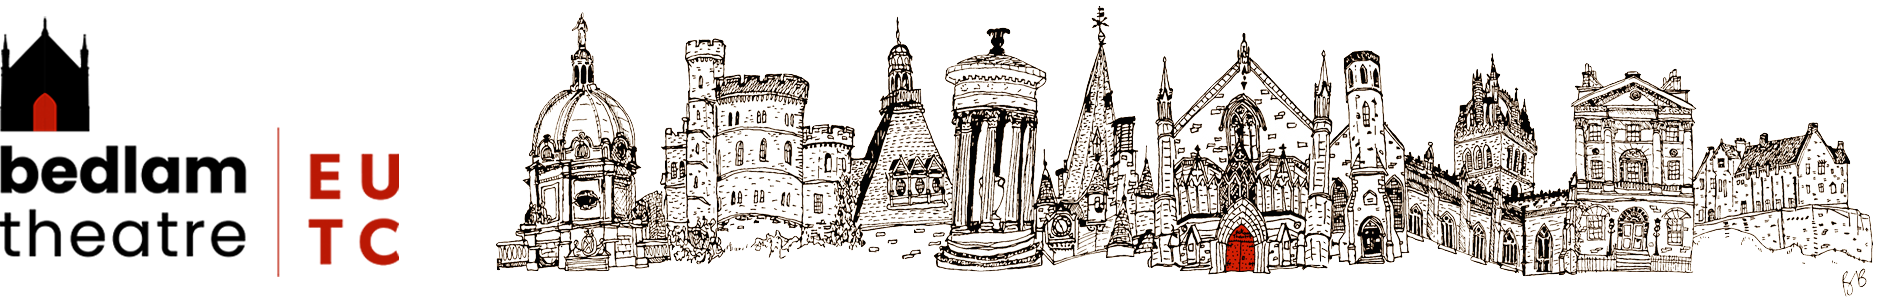
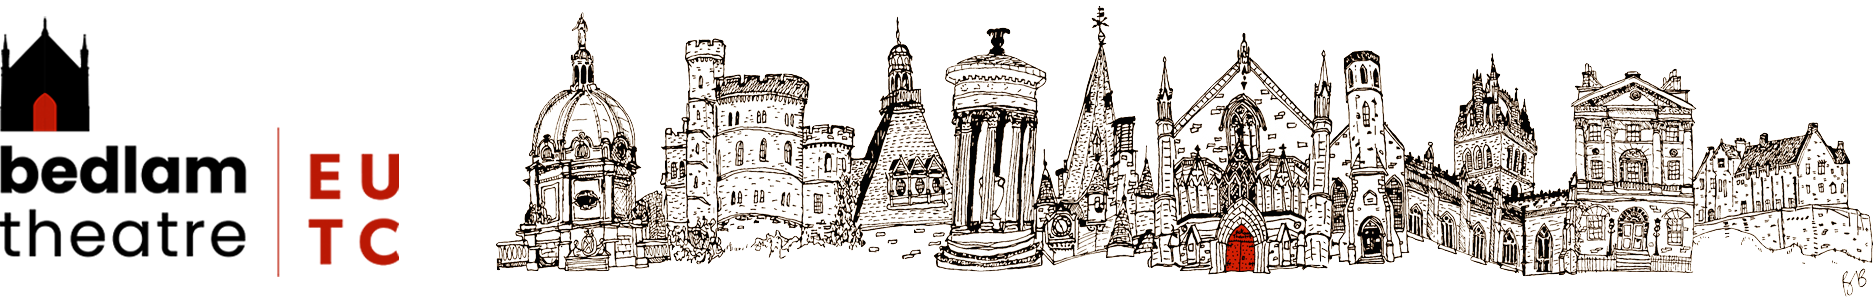
Update Bootstrap variables to style the public front-end in Bedlam red Style header to have clearer text Rejiggle sass files Crop a little blank space off of the header Align header fully with the navbar Make the navbar take up the full width of the navbar

diff --git a/app/assets/stylesheets/application.scss b/app/assets/stylesheets/application.scss
@@ -1,7 +1,20 @@
-// Note that things placed here do not work for the backend.
-@import 'base';
+// NOTE THAT THINGS PLACED HERE DO NOT WORK FOR THE BACKEND
+@import 'custom_bootstrap';
 
+//$fa-font-path: '@fortawesome/fontawesome-free/webfonts';
+//@import '@fortawesome/fontawesome-free/scss/fontawesome';
+//@import '@fortawesome/fontawesome-free/scss/solid';
+//@import '@fortawesome/fontawesome-free/scss/regular';
+//@import '@fortawesome/fontawesome-free/scss/brands';
+//@import '@fortawesome/fontawesome-free/scss/v4-shims';
+
+@import 'form_additions';
+@import 'shared_additions';
+
+// BOOTSTRAP: I think bootstrap-extensions should be merged with the rest. _everything_ is Bootstrap.
+@import 'bootstrap-extensions';
+
+// BOOTSTRAP: This file does not exist. Did you mean @import 'admin/swalCustomTheme.css';
 @import 'vendor/swalCustomTheme.css';
-@import 'admin/customisations.scss';
 
-@import 'additions';
+@import 'public_additions';

diff --git a/app/assets/stylesheets/custom_bootstrap.scss b/app/assets/stylesheets/custom_bootstrap.scss
@@ -1,0 +1,13 @@
+// Override the default Bootstrap colours.
+// This is only for front end, so we are neglecting the possible confusion of primary being red instead of danger being red.
+$red: #ba0204;
+
+$primary: $red;
+$secondary: #fdc5b6;
+// Value of gray-900 which is used for -dark.
+$danger: #212529;
+
+$link-color: $red;
+$headings-color: $red;
+
+@import "bootstrap/scss/bootstrap";

diff --git a/app/assets/stylesheets/bootstrap-extensions.scss b/app/assets/stylesheets/bootstrap-extensions.scss
@@ -1,3 +1,8 @@
+/* 
+BOOTSTRAP: Replace all uses of pull and float with the new float-end and float-start 
+BOOTSTRAP: Merge with additions
+BOOTSTRAP: Throw out useless additions, such as the one referencing span2.
+*/
 .pull-right {
   @extend .float-end !optional;
 }

diff --git a/app/assets/stylesheets/public_additions.scss b/app/assets/stylesheets/public_additions.scss
@@ -1,0 +1,14 @@
+@import "custom_bootstrap";
+
+// START HEADER
+.bedlam-nav-text {
+  @extend .text-white;
+  @extend .text-lg-center;
+  
+  font-weight: bold;
+}
+
+.navbar-bedlam {
+  background-color: $red;
+}
+// END HEADER

diff --git a/app/controllers/application_controller.rb b/app/controllers/application_controller.rb
@@ -19,6 +19,8 @@ class ApplicationController < ActionController::Base
 
   def set_globals
     @base_url = request.protocol + request.host_with_port
+    @current_path = request.path
+  
     # Create the @meta hash
     @meta = {
       description: 'The Bedlam Theatre is a unique, entirely student run theatre in the heart of Edinburgh.',

diff --git a/app/controllers/admin_controller.rb b/app/controllers/admin_controller.rb
@@ -96,8 +96,6 @@ class AdminController < ApplicationController
 
     @navbar_categories.reject! { |category| category[:children].empty? }
 
-    @current_path = request.path
-
     # to do - unsorted things
 
     add_breadcrumb 'Home', :admin_path
